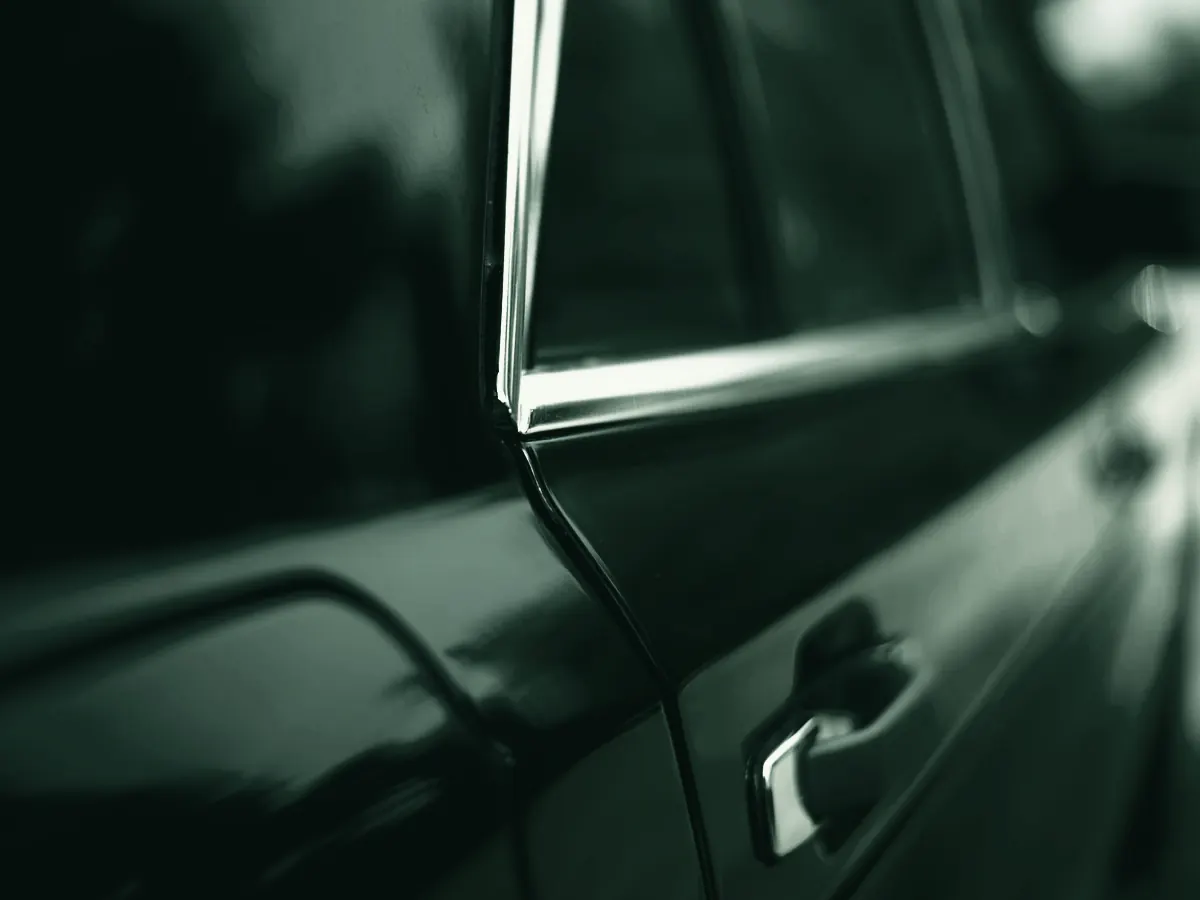
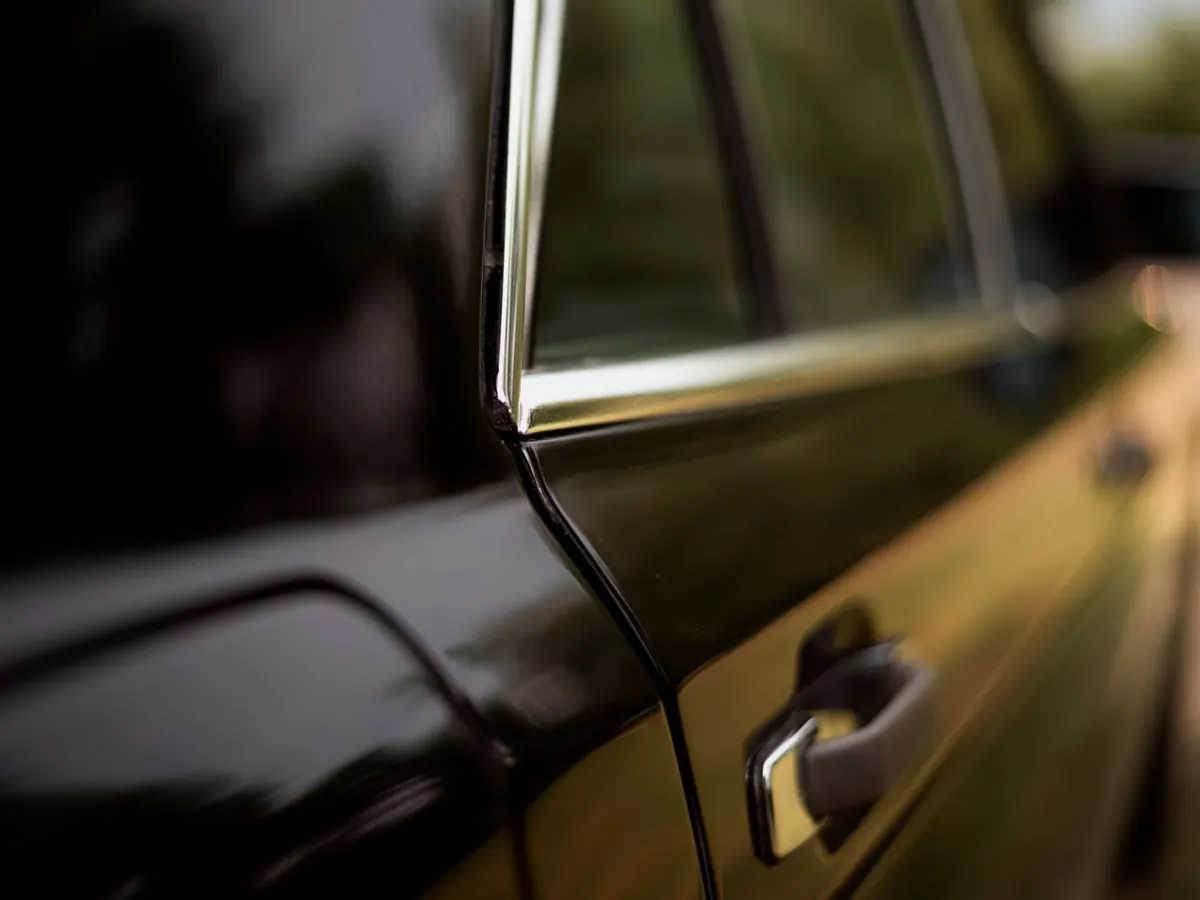
Natural stock photos: drop cutout hero and LUT grade; client-supply before panels

diff --git a/index.html b/index.html
@@ -36,10 +36,9 @@
 <main id="main">
 
 <section class="hero" aria-labelledby="hero-h">
-  <img class="hero-bg" src="assets/img/hero-bg.webp" alt="Rear quarter of a silver SUV lit from one side in a dark studio, light raking along the panel" width="1920" height="1080" fetchpriority="high">
-  <p class="hero-word rake-type" aria-hidden="true" style="--type-end:34%">GLAZE</p>
-  <img class="hero-fg" src="assets/img/hero-fg.webp" alt="" width="1920" height="1080" aria-hidden="true">
-  <span class="img-label">[IMAGE: hero — panel and body line under one light, no people, no badge] stock</span>
+  <picture><source media="(max-width: 899px)" srcset="assets/img/hero-bg-mobile.webp" width="900" height="1200"><img class="hero-bg" src="assets/img/hero-bg.webp" alt="Rear quarter of a silver SUV lit from one side in a dark studio, light raking along the panel" width="1920" height="1080" fetchpriority="high"></picture>
+  <p class="hero-word" aria-hidden="true">GLAZE</p>
+  <span class="img-label">[IMAGE: hero — SUV rear quarter in a dark studio, no people, no badge] stock</span>
   <div class="wrap hero-inner">
     <h1 class="display" id="hero-h">We bring our own water and electricity.</h1>
     <p class="claim">“As a fully mobile service, we bring our expertise directly to you.”<cite>Glaze, on their Google listing</cite></p>
@@ -70,18 +69,16 @@
   <p class="sub-label">The considered purchases</p><div class="svc-grid svc-grid--four rv-stagger"><a class="svc-card reflect big" href="ceramic-coating.html"><figure class=""><img src="assets/img/svc-coat.webp" alt="Deep black bonnet reflecting trees and sky" width="1200" height="900" loading="lazy"><figcaption><span>[IMAGE: glossy panel reflection] stock</span></figcaption></figure><div class="body"><span class="tag">Considered purchase</span><h3>Ceramic coating</h3><p>A coating applied to prepared paint. The preparation is most of the job.</p></div></a><a class="svc-card reflect big" href="paint-correction.html"><figure class=""><img src="assets/img/svc-polish.webp" alt="Gloved hand running a machine polisher across a dark panel" width="1200" height="900" loading="lazy"><figcaption><span>[IMAGE: machine polisher on paint — adult hand] stock</span></figcaption></figure><div class="body"><span class="tag">Considered purchase</span><h3>Paint correction</h3><p>Machine polishing that reduces the appearance of swirls and defects, assessed panel by panel.</p></div></a><a class="svc-card reflect big" href="vinyl-wrap-removal.html"><figure class=""><img src="assets/img/svc-film.webp" alt="Dark door panel and chrome handle at close range" width="1200" height="900" loading="lazy"><figcaption><span>[IMAGE: panel close-up — stand-in for film removal] stock</span></figcaption></figure><div class="body"><span class="tag">Considered purchase</span><h3>Vinyl wrap removal</h3><p>Removing vinyl wrap film, with the panel condition assessed before any work starts.</p></div></a><a class="svc-card reflect big" href="ppf-removal.html"><figure class=""><img src="assets/img/svc-film2.webp" alt="Wing mirror and door edge on a dark car" width="1200" height="900" loading="lazy"><figcaption><span>[IMAGE: panel and mirror — stand-in for PPF removal] stock</span></figcaption></figure><div class="body"><span class="tag">Considered purchase</span><h3>PPF removal</h3><p>Removing paint protection film. Older, sun-baked film carries more risk — it is assessed first.</p></div></a></div><p class="sub-label" style="margin-top:12px">Core services</p><div class="svc-grid svc-grid--six rv-stagger"><a class="svc-card reflect" href="interior-detailing.html"><figure class=""><img src="assets/img/svc-interior.webp" alt="Leather front seats and centre console in low light" width="1200" height="900" loading="lazy"><figcaption><span>[IMAGE: interior — seats and console] stock</span></figcaption></figure><div class="body"><h3>Interior detailing</h3><p>Seats, carpets, door cards, dash, vents and glass — cleaned where the vehicle is parked.</p></div></a><a class="svc-card reflect" href="exterior-detailing.html"><figure class=""><img src="assets/img/svc-wheel.webp" alt="Adult hand wiping a multi-spoke wheel with a microfibre cloth" width="1200" height="900" loading="lazy"><figcaption><span>[IMAGE: wheel cleaning — adult hand, rim marks blurred] stock</span></figcaption></figure><div class="body"><h3>Exterior detailing</h3><p>Hand wash, wheels, decontamination and trim, done in your driveway or car park.</p></div></a><a class="svc-card reflect" href="headlight-restoration.html"><figure class=""><img src="assets/img/svc-headlight.webp" alt="Headlight lens set into a dark polished panel" width="1200" height="900" loading="lazy"><figcaption><span>[IMAGE: headlight lens] stock</span></figcaption></figure><div class="body"><h3>Headlight restoration</h3><p>Cosmetic restoration of hazed, yellowed headlight lenses.</p></div></a><a class="svc-card reflect" href="ozone-odour-treatment.html"><figure><div class="ph-frame" style="aspect-ratio:4/3;border:0"><span>[NO IMAGE — NAME AND ONE LINE ONLY]</span></div></figure><div class="body"><h3>Ozone odour treatment</h3><p>Ozone odour treatment, used for persistent odours in a vehicle interior.</p></div></a><a class="svc-card reflect" href="clay-bar-polish.html"><figure class=""><img src="assets/img/svc-clay.webp" alt="Microfibre towels draped over a detailing cart" width="1200" height="900" loading="lazy"><figcaption><span>[IMAGE: microfibre towels on a detailing cart] stock</span></figcaption></figure><div class="body"><h3>Clay bar & polish</h3><p>Bonded contamination lifted with clay, then the paint polished.</p></div></a><a class="svc-card reflect" href="pet-hair-removal.html"><figure class=""><img src="assets/img/svc-seats.webp" alt="Close view of pleated seat upholstery" width="1200" height="900" loading="lazy"><figcaption><span>[IMAGE: seat upholstery close-up] stock</span></figcaption></figure><div class="body"><h3>Pet hair removal</h3><p>Embedded pet hair worked out of carpets, seats and the boot.</p></div></a></div>
 </div></section>
 <section class="section" aria-labelledby="ba-h"><div class="wrap">
-  <div class="sec-head"><p class="eyebrow">Before / after</p><h2 class="display" id="ba-h">Matte to gloss.</h2></div>
-  <div class="ba" role="group" aria-label="Before and after slider, illustrative">
-  <img class="after" src="assets/img/svc-hood.webp" alt="Polished dark bonnet with reflections of trees, glossy finish" width="1600" height="900" loading="lazy">
-  <span class="gloss" aria-hidden="true"></span>
-  <img class="before" src="assets/img/svc-hood.webp" alt="" width="1600" height="900" loading="lazy" aria-hidden="true">
+  <div class="sec-head"><p class="eyebrow">Before / after</p><h2 class="display" id="ba-h">Before and after.</h2></div>
+  <div class="ba" role="group" aria-label="Before and after slider">
+  <img class="after" src="assets/img/svc-hood.webp" alt="Polished dark bonnet with reflections of trees" width="1600" height="900" loading="lazy">
+  <div class="before ph-before" aria-hidden="true"><span>[BEFORE — CLIENT TO SUPPLY. A REAL PAIR OF THE SAME VEHICLE GOES HERE]</span></div>
   <span class="handle" aria-hidden="true"></span>
-  <span class="tag l">Matte</span><span class="tag r">Gloss</span>
-  <input type="range" min="0" max="100" value="50" aria-label="Drag to compare matte and gloss">
+  <span class="tag l">Before</span><span class="tag r">After</span>
+  <input type="range" min="0" max="100" value="50" aria-label="Drag to compare before and after">
 </div>
 <span class="flag flag--block ">[ILLUSTRATIVE STOCK — NOT GLAZE'S OWN WORK. CLIENT TO SUPPLY REAL BEFORE/AFTER]</span>
-<p class="src">Illustrative only: the matte side is the same stock photo with a flat grade applied. It is not a real before and after.</p>
-  <div style="margin-top:28px"><div class="ba-pairs rv-stagger"><div class="pair"><div class="two"><img src="assets/img/svc-coat.webp" alt="" width="1200" height="900" loading="lazy" aria-hidden="true"><img src="assets/img/svc-coat.webp" alt="Glossy black panel" width="1200" height="900" loading="lazy"></div><p>Oxidised paint → gloss · [illustrative stock — same photo, flat grade on the left]</p></div><div class="pair"><div class="two"><img src="assets/img/svc-polish.webp" alt="" width="1200" height="900" loading="lazy" aria-hidden="true"><img src="assets/img/svc-polish.webp" alt="Polisher on a dark panel" width="1200" height="900" loading="lazy"></div><p>Swirled panel → polished · [illustrative stock — same photo, flat grade on the left]</p></div><div class="pair"><div class="two"><img src="assets/img/svc-interior.webp" alt="" width="1200" height="900" loading="lazy" aria-hidden="true"><img src="assets/img/svc-interior.webp" alt="Leather front seats" width="1200" height="900" loading="lazy"></div><p>Interior — before → after · [illustrative stock — same photo, flat grade on the left]</p></div><div class="pair"><div class="two"><img src="assets/img/svc-headlight.webp" alt="" width="1200" height="900" loading="lazy" aria-hidden="true"><img src="assets/img/svc-headlight.webp" alt="Headlight lens" width="1200" height="900" loading="lazy"></div><p>Hazed lens → restored · [illustrative stock — same photo, flat grade on the left]</p></div></div></div>
+  <div style="margin-top:28px"><div class="ba-pairs rv-stagger"><div class="pair"><div class="two"><div class="ph-mini">[BEFORE — CLIENT TO SUPPLY]</div><img src="assets/img/svc-coat.webp" alt="Glossy black panel" width="1200" height="900" loading="lazy"></div><p>Paint · after: illustrative stock</p></div><div class="pair"><div class="two"><div class="ph-mini">[BEFORE — CLIENT TO SUPPLY]</div><img src="assets/img/svc-polish.webp" alt="Polisher on a dark panel" width="1200" height="900" loading="lazy"></div><p>Polished panel · after: illustrative stock</p></div><div class="pair"><div class="two"><div class="ph-mini">[BEFORE — CLIENT TO SUPPLY]</div><img src="assets/img/svc-interior.webp" alt="Leather front seats" width="1200" height="900" loading="lazy"></div><p>Interior · after: illustrative stock</p></div><div class="pair"><div class="two"><div class="ph-mini">[BEFORE — CLIENT TO SUPPLY]</div><img src="assets/img/svc-headlight.webp" alt="Headlight lens" width="1200" height="900" loading="lazy"></div><p>Headlight lens · after: illustrative stock</p></div></div></div>
 </div></section>
 <section class="section sheet-panel" aria-labelledby="pkg-h"><div class="wrap">
   <div class="sec-head"><p class="eyebrow">Packages</p><h2 class="display" id="pkg-h">Packages.</h2><p class="lede">The structure is finished. The names, contents and prices are Glaze's to fill in.</p></div>

diff --git a/paint-correction.html b/paint-correction.html
@@ -38,16 +38,14 @@
   <div><p class="lede">Machine polishing that reduces the appearance of swirls and defects, assessed panel by panel.</p><span class="flag flag--block flag--big">[PAINT CORRECTION — OUTCOME VARIES BY CLEAR-COAT CONDITION. NO DEFECT-REMOVAL GUARANTEE]</span><ol class="process"><li><div><strong>Inspection</strong>Each panel checked under light.</div></li><li><div><strong>Paint assessment</strong><span class="flag ">[DO THEY MEASURE PAINT THICKNESS? — CONFIRM]</span></div></li><li><div><strong>Test section</strong>A small area first, to choose pad and polish.</div></li><li><div><strong>Machine polishing</strong>Panel by panel, as far as the clear coat allows.</div></li><li><div><strong>Final check</strong>Reviewed with you under light.</div></li></ol>
     <div class="btn-row" style="margin-top:24px"><a class="btn btn--jade" href="contact.html#quote">Get a quote</a><a class="btn btn--ghost" href="tel:+18138454569">Call (813) 845-4569</a></div></div>
   <div><figure class="svc-card"><img src="assets/img/svc-polish.webp" alt="Gloved hand running a machine polisher across a dark panel" width="1200" height="900" loading="lazy"><figcaption><span>[IMAGE: machine polisher on paint — adult hand] stock</span></figcaption></figure><p style="margin-top:56px"><span class="flag ">[PRICE — NOT PUBLISHED, CLIENT TO SUPPLY]</span></p><span class="flag flag--block ">[BEFORE/AFTER FOR THIS SERVICE — CLIENT TO SUPPLY]</span></div>
-</div><div class="wrap"><div style="margin-top:32px"><span class="flag flag--block ">[PAINT CORRECTION — OUTCOME VARIES BY CLEAR-COAT CONDITION. NO DEFECT-REMOVAL GUARANTEE]</span><div class="ba" role="group" aria-label="Before and after slider, illustrative">
-  <img class="after" src="assets/img/svc-hood.webp" alt="Polished dark bonnet with reflections of trees, glossy finish" width="1600" height="900" loading="lazy">
-  <span class="gloss" aria-hidden="true"></span>
-  <img class="before" src="assets/img/svc-hood.webp" alt="" width="1600" height="900" loading="lazy" aria-hidden="true">
+</div><div class="wrap"><div style="margin-top:32px"><span class="flag flag--block ">[PAINT CORRECTION — OUTCOME VARIES BY CLEAR-COAT CONDITION. NO DEFECT-REMOVAL GUARANTEE]</span><div class="ba" role="group" aria-label="Before and after slider">
+  <img class="after" src="assets/img/svc-hood.webp" alt="Polished dark bonnet with reflections of trees" width="1600" height="900" loading="lazy">
+  <div class="before ph-before" aria-hidden="true"><span>[BEFORE — CLIENT TO SUPPLY. A REAL PAIR OF THE SAME VEHICLE GOES HERE]</span></div>
   <span class="handle" aria-hidden="true"></span>
-  <span class="tag l">Matte</span><span class="tag r">Gloss</span>
-  <input type="range" min="0" max="100" value="50" aria-label="Drag to compare matte and gloss">
+  <span class="tag l">Before</span><span class="tag r">After</span>
+  <input type="range" min="0" max="100" value="50" aria-label="Drag to compare before and after">
 </div>
-<span class="flag flag--block ">[ILLUSTRATIVE STOCK — NOT GLAZE'S OWN WORK. CLIENT TO SUPPLY REAL BEFORE/AFTER]</span>
-<p class="src">Illustrative only: the matte side is the same stock photo with a flat grade applied. It is not a real before and after.</p></div></div></section></main>
+<span class="flag flag--block ">[ILLUSTRATIVE STOCK — NOT GLAZE'S OWN WORK. CLIENT TO SUPPLY REAL BEFORE/AFTER]</span></div></div></section></main>
 <footer class="site-foot">
   <div class="wet rv" aria-hidden="true"></div>
   <div class="wrap">

diff --git a/styles.css b/styles.css
@@ -372,3 +372,17 @@ h3.display { font-size: clamp(1.9rem, 3.4vw, 2.8rem); font-weight: 800; }
   .hero h1 { font-size: clamp(2.2rem, 10vw, 3rem); }
   .hero .claim { font-size: 1rem; }
 }
+
+/* ---------- v2: natural stock photos, no cutout, no faked "before" (Alex, 2026-10-12) ---------- */
+.hero-fg { display: none; }
+.hero-bg { object-position: 60% 50%; }
+.hero-word { color: var(--specular); opacity: .92; font-size: clamp(5rem, 22vw, 22rem); top: clamp(20px, 4vh, 48px); }
+.hero::after { background: linear-gradient(0deg, var(--lacquer) 6%, rgba(6,18,14,.78) 38%, rgba(6,18,14,.35) 65%, rgba(6,18,14,.55) 100%); }
+.ba .ph-before { position: absolute; inset: 0; z-index: 2; clip-path: inset(0 calc(100% - var(--pos)) 0 0); background: var(--lacquer-2); display: grid; place-items: center start; padding: 0 24px; filter: none; }
+.ba .ph-before span { font: 400 .75rem/1.5 var(--f-mono); letter-spacing: .06em; text-transform: uppercase; color: var(--platinum); max-width: 30ch; }
+.ba .gloss { display: none; }
+.pair .ph-mini { aspect-ratio: 1; display: grid; place-items: center; text-align: center; padding: 6px; background: var(--lacquer-2); font: 400 .5625rem/1.3 var(--f-mono); letter-spacing: .06em; text-transform: uppercase; color: var(--muted); }
+@media (max-width: 899px) {
+  .hero-bg { height: 100%; top: 0; bottom: auto; object-position: 50% 40%; }
+  .hero-word { font-size: 30vw; }
+}
